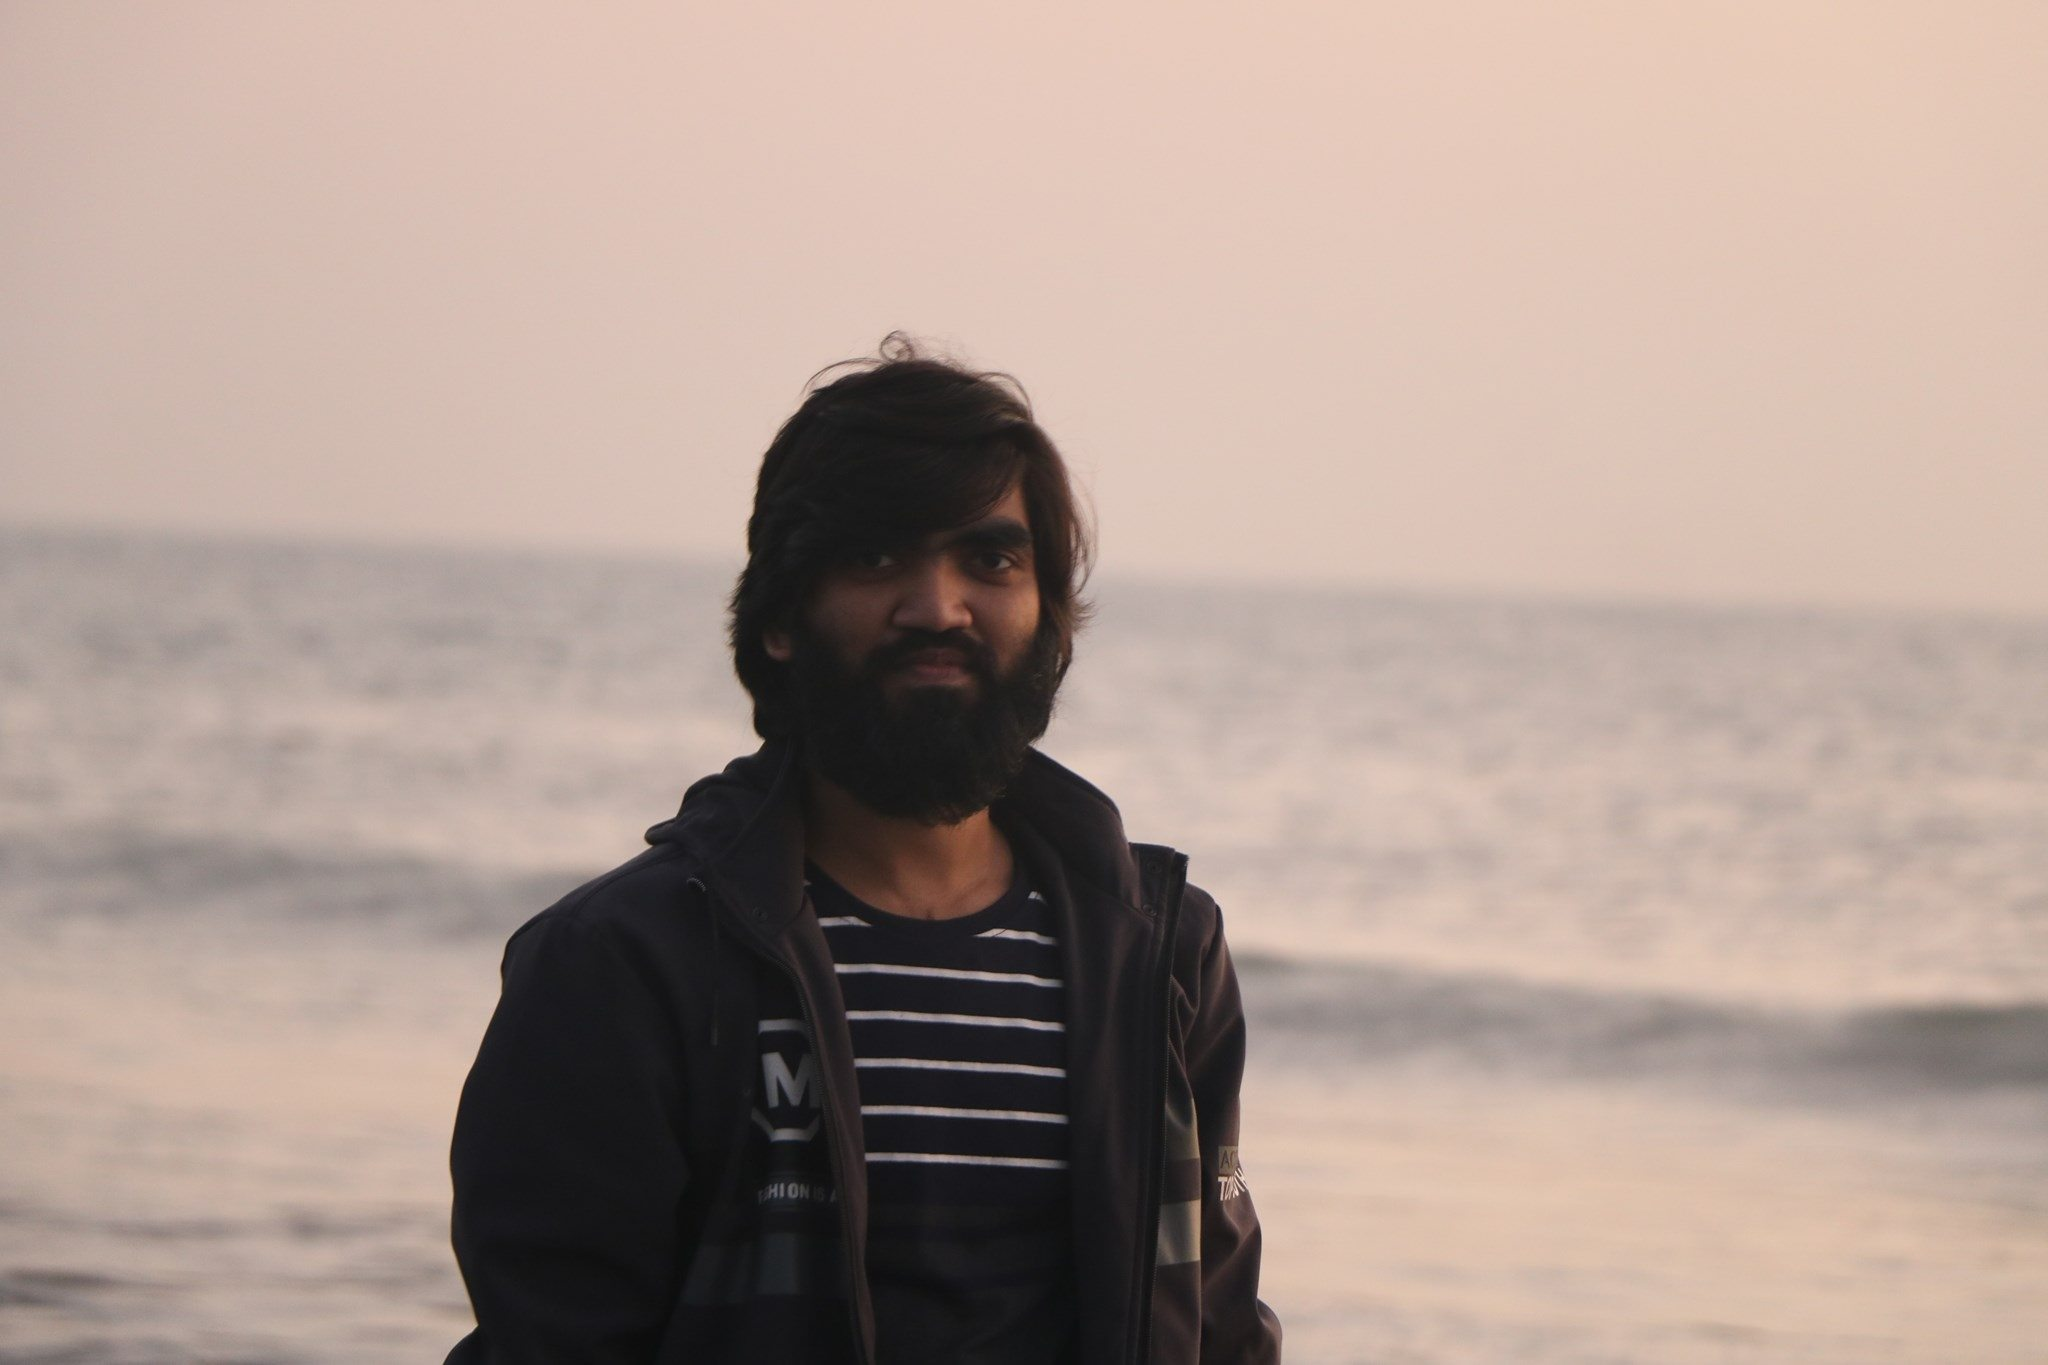
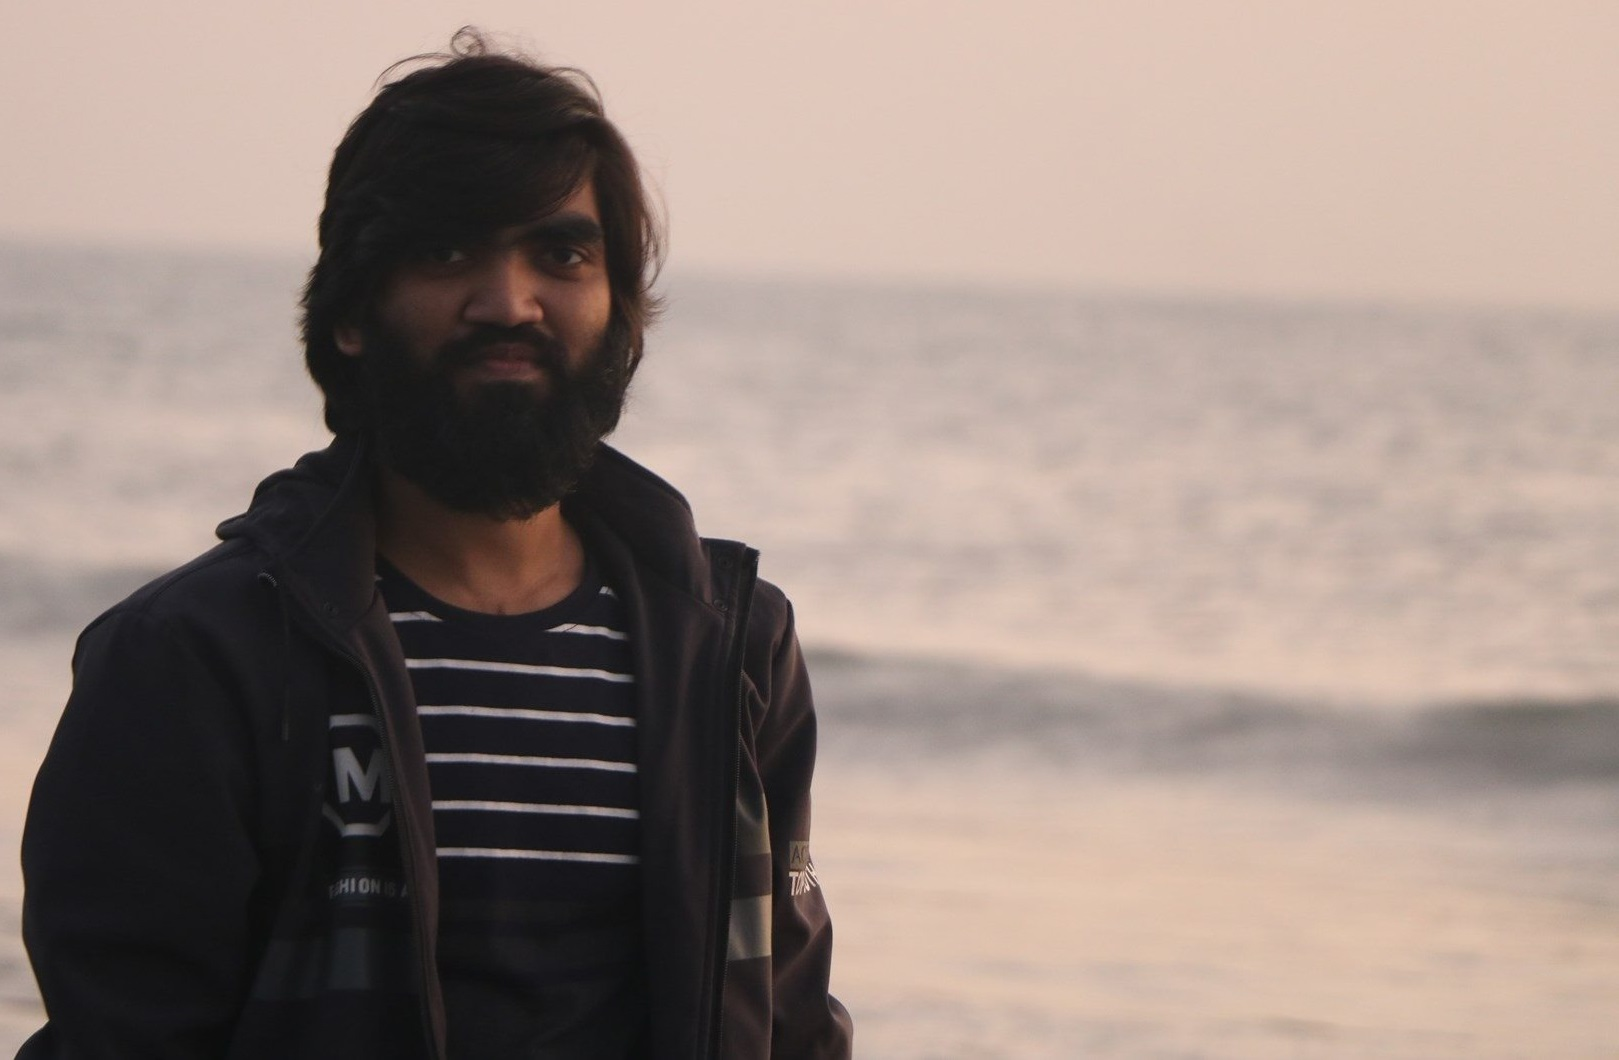
add about section

diff --git a/src/Components/Home/About/About.js b/src/Components/Home/About/About.js
@@ -1,0 +1,49 @@
+import React from 'react';
+import myPhoto from '../../../Assets/myPhoto.jpg'
+import { AiOutlineMail, AiOutlineHome, AiFillLinkedin } from "react-icons/ai";
+
+const About = () => {
+    return (
+        <div className='mt-11'>
+            <div className="hero">
+                <div className="flex flex-col lg:flex-row">
+                    <img src={myPhoto} className="lg:max-w-lg h-full rounded-lg shadow-2xl" alt='' />
+                    <div className='mt-5 mx-5 lg:w-[50%] lg:mx-auto'>
+                        <h1 className="text-4xl font-bold">About Me</h1>
+                        <p className="py-6 text-justify">
+                            I have been working as a web developer for the past six months. In that time, I have gained experience
+                            in both back-end and front-end development. I have also worked on a wide range of projects, from
+                            small, simple websites to large, complex ones. My skills include HTML, CSS, JavaScript, React JS, and
+                            Node JS. Also, mongoDB for database system.
+                            I am a motivated and hard-working individual who is always looking for new challenges.
+                        </p>
+                        <p>
+                            <a href="mailto:masud.cse.uap@gmail.com"
+                                className='flex items-center gap-3'
+                            >
+                                <span><AiOutlineMail className='h-5 w-7 text-rose-400 font-thin' /></span>
+                                <span className='text-gray-500 '>masud.cse.uap@gmail.com</span>
+                            </a>
+                        </p>
+                        <p className='mt-3'>
+                            <a href="https://www.linkedin.com/in/md-masud-ahmed-7b41a1240/"
+                                target='_blank'
+                                rel='noreferrer'
+                                className='flex items-center gap-3'
+                            >
+                                <span><AiFillLinkedin className='h-5 w-7 text-rose-400 font-thin' /></span>
+                                <span className='text-gray-500 '>LinkedIn Profile</span>
+                            </a>
+                        </p>
+                        <p className='flex items-center gap-3 mt-3'>
+                            <span><AiOutlineHome className='h-5 w-7 text-rose-400' /></span>
+                            <span className='text-gray-500 '>Dhaka, Bangladesh</span>
+                        </p>
+                    </div>
+                </div>
+            </div>
+        </div>
+    );
+};
+
+export default About;

diff --git a/src/Components/Home/Hero/Hero.js b/src/Components/Home/Hero/Hero.js
@@ -22,7 +22,11 @@ const Hero = () => {
                         <span className='text-red-600'><Cursor cursorStyle='|' /></span>
                     </p>
                     <div className='flex gap-5 justify-center mt-10'>
-                        <button className="btn btn-warning btn-outline">View Resume</button>
+                        <a href="https://drive.google.com/file/d/1KqI7myCcUcQupUfBfAGWa0e1QsQoosbe/view?usp=sharing"
+                            rel='noreferrer'
+                            target="_blank">
+                            <button className="btn btn-warning btn-outline">View Resume</button>
+                        </a>
                         <button className="btn btn-success btn-outline">Contact Me</button>
                     </div>
                 </div>

diff --git a/src/Components/Home/Home.js b/src/Components/Home/Home.js
@@ -1,10 +1,14 @@
 import React from 'react';
+import About from './About/About';
 import Hero from './Hero/Hero';
+import Skills from './Skills/Skills';
 
 const Home = () => {
     return (
         <div>
             <Hero />
+            <About />
+            <Skills />
         </div>
     );
 };

diff --git a/src/Components/Home/Skills/Skills.js b/src/Components/Home/Skills/Skills.js
@@ -1,0 +1,11 @@
+import React from 'react';
+
+const Skills = () => {
+    return (
+        <div>
+
+        </div>
+    );
+};
+
+export default Skills;
